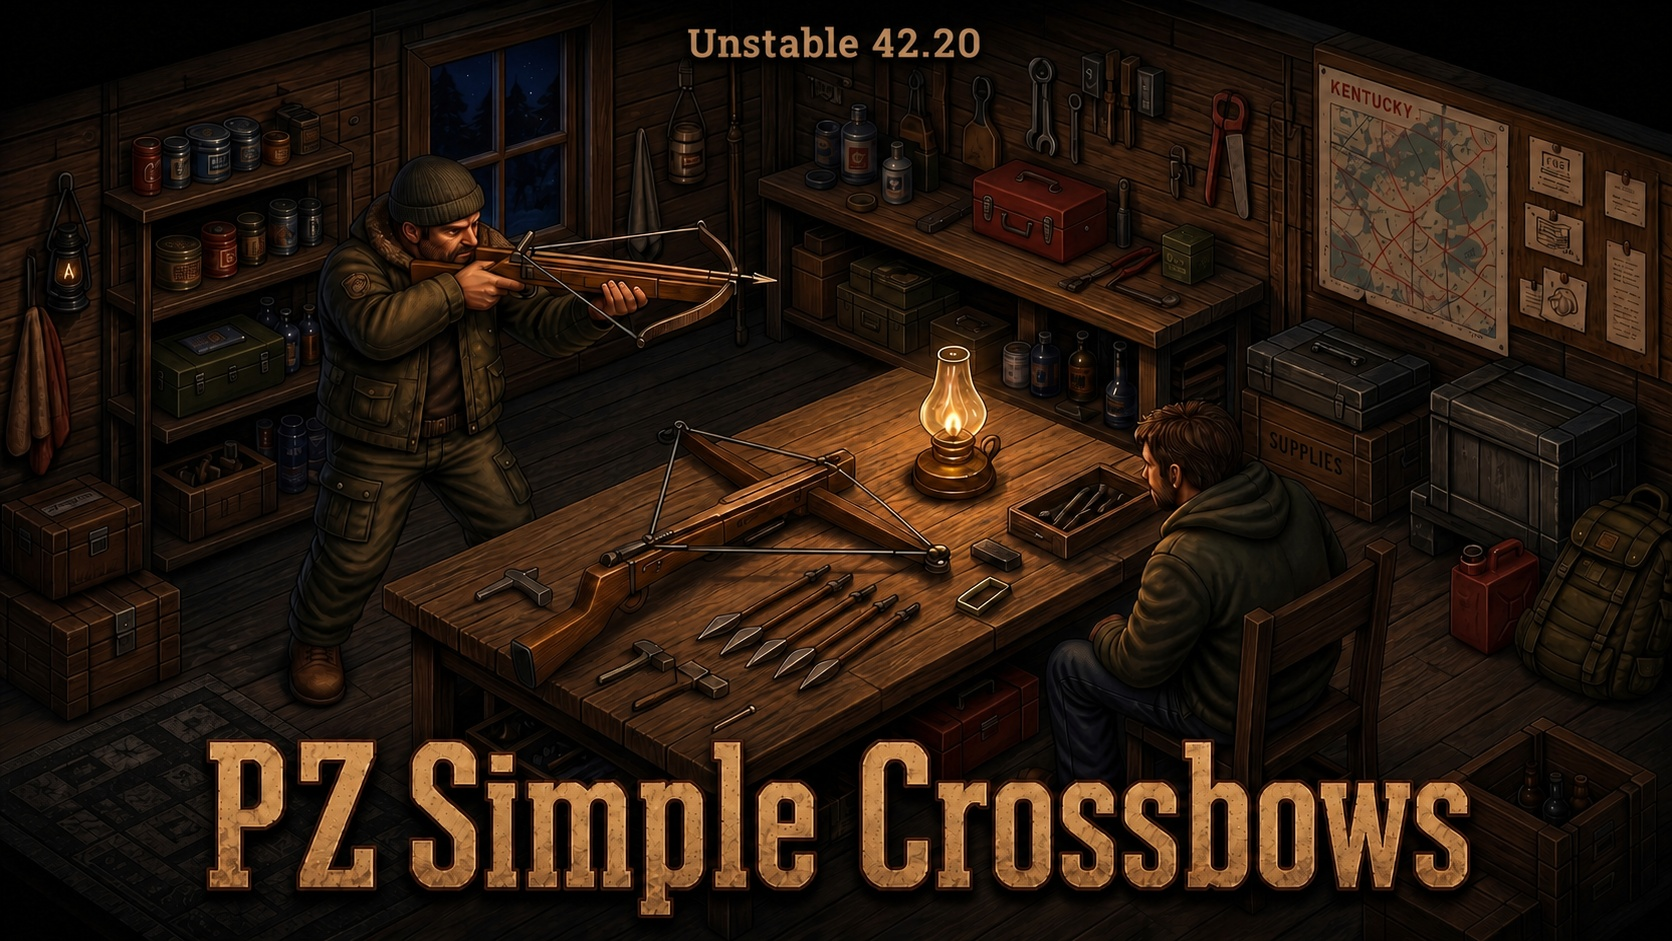
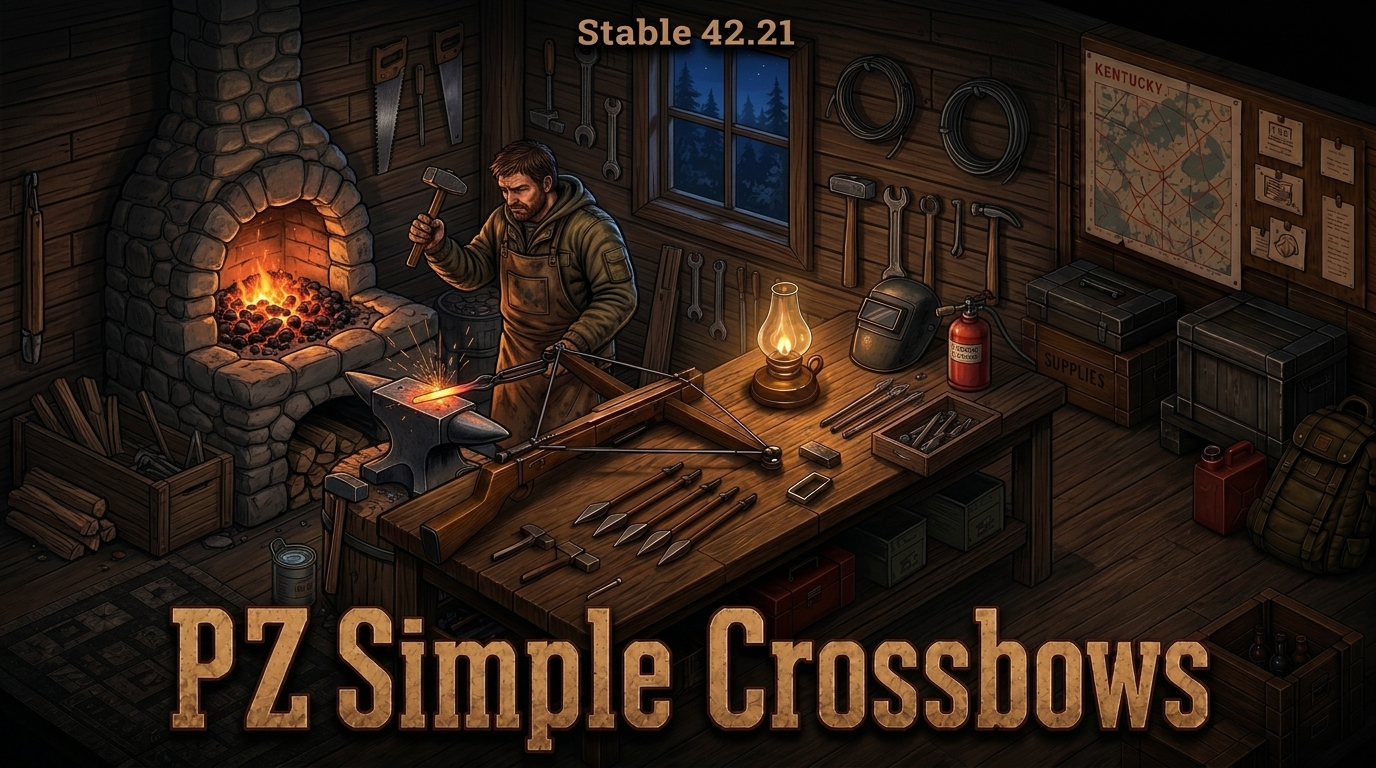
Refactor code structure for improved readability and maintainability

diff --git a/README.md b/README.md
@@ -4,21 +4,24 @@
 
 # PZ Simple Crossbows
 
-PZ Simple Crossbows is a standalone, lore-friendly crossbow pack for **Project Zomboid Build 42.21**. It adds practical craftable ranged weapons, handmade ammunition, custom models, icons, sounds, recipes, loot distribution, sandbox tuning, and English/Ukrainian localization.
+PZ Simple Crossbows is a standalone, lore-friendly crossbow pack for **Project Zomboid Build 42.21**. It adds practical craftable ranged weapons, wooden and forged/welded metal ammunition with smart dual-ammo switching, weapon repairs, custom models, icons, sounds, recipes, loot distribution, sandbox tuning, and English/Ukrainian localization.
 
 [![Steam Workshop](https://img.shields.io/badge/Steam-Workshop-1b2838?logo=steam&logoColor=white)](https://steamcommunity.com/sharedfiles/filedetails/?id=3758880254)
 ![Project Zomboid](https://img.shields.io/badge/Project%20Zomboid-Build%2042.21-b08b57)
 ![Multiplayer](https://img.shields.io/badge/Multiplayer-Supported-4c8c4a)
 ![Mod ID](https://img.shields.io/badge/Mod%20ID-PZCrossbows-d6a65a)
+![Version](https://img.shields.io/badge/Version-1.1.0-6a9fb5)
 
 ## Features
 
 - Four crossbow types with their own models, icons, balance, reload behavior, and use cases.
-- Full wooden-bolt ammo chain: carve shafts, knap stone heads, assemble bolts, and reuse or recover what survives.
+- **Dual-ammo system (Wood & Metal Bolts)**: every crossbow seamlessly fires both standard wooden bolts and forged/welded metal bolts with increased damage, critical chance, and door damage.
+- **Smart reload & ammo switching**: pressing `R` searches your main inventory, Bolt Quiver, and all worn/carried bags — automatically unloading partial bolts and switching to the other bolt type when one runs out (plus manual switching via holding `R` for the radial menu or right-clicking in inventory).
+- **Blacksmithing & Welding integration**: forge **Metal Bolt Heads** at a forge (**Blacksmithing 2**) or cut them with a propane blowtorch (**Welding 3**), and repair worn crossbows via field supplies, gas welding, or blacksmithing.
 - Wilderness-friendly crafting with no magazine or book requirement.
 - Standalone design: no extra framework mod required.
 - Loot distribution for weapons and ammo, with sandbox multipliers for spawn rates.
-- Multiplayer-safe bolt recovery from corpses.
+- Multiplayer-safe bolt recovery from corpses — metal bolts break less often, and broken metal bolts can be salvaged back into metal bolt heads.
 - Custom sounds for shooting, reloading, dry fire, rack actions, and impact.
 - English and Ukrainian localization included.
 
@@ -26,28 +29,29 @@ PZ Simple Crossbows is a standalone, lore-friendly crossbow pack for **Project Z
 
 | Weapon | Role | Notes |
 |---|---|---|
-| Crude Crossbow | Early survival weapon | Simple, rough, craftable from basic wood and binding. |
+| Crude Crossbow | Early survival weapon | Simple, rough, craftable from basic wood, nails, and binding. |
 | Improved Crossbow | Reliable mid-tier option | Better range and accuracy. |
 | Compound Crossbow | Heavy hitter | Strongest damage profile, slower reload, supports scopes. |
 | Hand Crossbow | Compact repeater | One-handed sidearm that uses short bolts and holds four shots. |
 
 ## Ammunition
 
-The mod adds a small survival crafting loop around wooden bolts:
+The mod includes two progression tiers of ammunition — primitive stone-tipped **Wood Bolts** and forged/welded **Metal Bolts**:
 
 - Carve **Wood Bolt Shafts** or **Short Wood Bolt Shafts** from branches, sticks, saplings, or planks.
-- Make **Stone Bolt Heads** through flint knapping.
-- Assemble **Wood Bolts** for full-size crossbows, or **Short Wood Bolts** for the hand crossbow.
-- Recover fired bolts from corpses, with configurable break chances — recovered bolts can come back intact or as **Broken Bolts**, salvageable for materials.
-- Bolts also come as **Box of Wood Bolts** / **Box of Short Wood Bolts** (a bundle of 10), found as loot or packed from loose bolts — open a box for 10 loose bolts, or bundle 10 loose bolts back into a box.
-- **Bolt Quiver**: a wearable container that holds only wooden bolts (full and short). Wearing one grants +15% reload speed to all crossbows, the same bonus a shotgun shell bandolier gives a shotgun.
+- Make **Stone Bolt Heads** through flint knapping, or craft **Metal Bolt Heads** at a forge (**Blacksmithing 2**) or with a propane blowtorch (**Welding 3**).
+- Assemble **Wood Bolts** / **Short Wood Bolts** with rags and binding, or **Metal Bolts** / **Short Metal Bolts** using sturdier fasteners (leather strips, scotch tape, duct tape, sinew thread, or wood glue) plus binding.
+- **Dual-Ammo Switching**: hold `R` to switch bolt types via the firearm radial menu, right-click bolts/crossbows in inventory, or simply press `R` — when your current bolt type runs out across your inventory, quiver, and bags, the crossbow automatically unloads any remaining bolts of the depleted type and loads the alternate type.
+- Recover fired bolts from corpses, with configurable break chances — metal bolts have a **25% lower break chance** than wood bolts, and **Broken Metal Bolts** can be salvaged (including via double-click) to recover their **Metal Bolt Head**.
+- Bolts also come in boxes of 10 (**Box of Wood Bolts**, **Box of Short Wood Bolts**, **Box of Metal Bolts**, **Box of Short Metal Bolts**), found as loot or packed/unpacked by hand.
+- **Bolt Quiver**: a wearable container that holds both wooden and metal bolts (full and short). Wearing one grants +15% reload speed to all crossbows, the same bonus a shotgun shell bandolier gives a shotgun.
 
 ## Where to find it
 
 Crossbows and bolts spawn as ordinary civilian loot — never in police or military loot pools:
 
 - **Pawn shops**: weapon racks/lockers can hold any of the four crossbow tiers.
-- **Gun stores and hunting/camping stores**: rifle racks and display cases carry Compound and Improved crossbows; ammo shelves carry boxes of bolts.
+- **Gun stores and hunting/camping stores**: rifle racks and display cases carry Compound and Improved crossbows; ammo shelves carry boxes of wood and metal bolts.
 - **Army surplus stores**: rifle rack alongside the gun stores.
 - **Ordinary houses**: closets, garages, living rooms, and storage units can turn up a crossbow or a box of bolts, same as any other hunting gear.
 - **Survivor safehouses and caches**: full weapon roster, same spawn family vanilla firearms use.
@@ -60,18 +64,24 @@ Crossbows, the quiver, and bolts can also be found while **foraging** outdoors (
 
 Spawn rates for each crossbow tier are tunable via the sandbox options below.
 
-## Crafting
+## Crafting & Repair
 
-All recipes are available without books and are built around common survival materials:
+All recipes are available without books and are built around survival and workshop materials:
 
 - A real knife or sharp knife tag for carving and weapon assembly.
 - Hammer for crossbow construction.
 - Saw, nails, wire, planks, sticks, branches, saplings, and binding depending on the weapon tier.
-- Carving, Maintenance, Woodwork, and Flint Knapping requirements scale with the item being made.
+- Carving, Maintenance, Woodwork, Flint Knapping, Blacksmithing, and Welding requirements scale with the item being made.
 - **Crude Crossbow** adds 4 nails to the base wood-and-binding build.
 - **Improved Crossbow** adds duct tape, scotch tape, or aramid thread for reinforcement.
 - **Compound Crossbow** adds nuts & bolts for the pulley mechanism, plus a wrench as a required tool.
 - **Hand Crossbow** adds electric wire, small carved handles, electronics scrap, and duct tape/scotch tape/aramid thread for its compact mechanism.
+- **Metal Bolt Heads** (batch of 5):
+  - **Forge (`Blacksmithing 2`)**: 1 charcoal + 1 metal piece (scrap metal, small sheet metal, iron/steel chunk, or quarter iron/steel bar) + hammer + tongs.
+  - **Blowtorch (`Welding 3`)**: 1 blowtorch use + welding mask + cutting/filing tool + 1 flat/bar metal piece (small sheet metal or quarter iron/steel bar).
+- **Crossbow Repair**:
+  - **Field repairs**: standard tape, wood glue, or epoxy repairs.
+  - **Workshop repairs**: higher-efficiency restoration via gas welding (`Welding 1`) or at a forge (`Blacksmithing 1`).
 - **Bolt Quiver** is sewn instead of built: scissors, a sewing needle, and an awl (tools), plus 4 leather strips, heavy thread, and a buckle (consumed). Requires Tailoring 2.
 
 ## Item weights
@@ -82,15 +92,23 @@ All recipes are available without books and are built around common survival mat
 | Improved Crossbow | 2 |
 | Compound Crossbow | 1.75 |
 | Hand Crossbow | 1.45 |
+| Bolt Quiver | 0.5 |
 | Wood Bolt Shaft | 0.05 |
 | Short Wood Bolt Shaft | 0.03 |
-| Crossbow Bolt Head | 0.1 |
+| Crossbow Bolt Head (Stone) | 0.1 |
+| Metal Bolt Head | 0.1 |
 | Wood Bolt | 0.08 |
 | Short Wood Bolt | 0.05 |
 | Wood Bolt (Broken) | 0.06 |
 | Short Wood Bolt (Broken) | 0.03 |
 | Box of Wood Bolts | 0.7 |
 | Box of Short Wood Bolts | 0.4 |
+| Metal Bolt | 0.1 |
+| Short Metal Bolt | 0.06 |
+| Metal Bolt (Broken) | 0.08 |
+| Short Metal Bolt (Broken) | 0.05 |
+| Box of Metal Bolts | 0.85 |
+| Box of Short Metal Bolts | 0.5 |
 
 ## Sandbox options
 
@@ -101,9 +119,9 @@ All recipes are available without books and are built around common survival mat
 | Improved Crossbow Spawn Multiplier | 1.0 | 0.0-1000.0 | Container and foraging spawn multiplier for improved crossbows. |
 | Compound Crossbow Spawn Multiplier | 1.0 | 0.0-1000.0 | Container and foraging spawn multiplier for compound crossbows and full-size bolts. |
 | Hand Crossbow Spawn Multiplier | 1.0 | 0.0-1000.0 | Container and foraging spawn multiplier for hand crossbows and short bolts. |
-| Wood Bolt Base Break Chance | 40% | 0-100 | Base chance for a recovered full-size bolt to break. |
+| Wood Bolt Base Break Chance | 40% | 0-100 | Base chance for a recovered full-size bolt to break (metal bolts have 25% lower break chance). |
 | Wood Bolt Break Chance Scaling | 3% | 0-100 | Additional break chance scaling for full-size bolts. |
-| Short Wood Bolt Base Break Chance | 50% | 0-100 | Base chance for a recovered short bolt to break. |
+| Short Wood Bolt Base Break Chance | 50% | 0-100 | Base chance for a recovered short bolt to break (short metal bolts have 25% lower break chance). |
 | Short Wood Bolt Break Chance Scaling | 3% | 0-100 | Additional break chance scaling for short bolts. |
 
 Every mod item's spawn weight is the Overall Loot Spawn Multiplier stacked (multiplied) with its own tier multiplier, applied identically to both container loot and foraging: crossbows use their own tier multiplier; the Bolt Quiver only uses the overall multiplier (it isn't tied to one specific crossbow tier); full-size bolts (loose and boxed) use the overall multiplier together with the Compound Crossbow multiplier; short bolts (loose and boxed) use the overall multiplier together with the Hand Crossbow multiplier. Setting the overall multiplier to 0 disables all mod loot and foraging spawns regardless of the individual tier sliders.
@@ -147,6 +165,7 @@ PZCrossbows/
     |-- mod.info
     |-- poster.png
     `-- media/
+        |-- registries.lua
         |-- sandbox-options.txt
         |-- scripts/
         |-- lua/
@@ -162,7 +181,7 @@ PZCrossbows/
 - Multiplayer and co-op hosting
 - Mod ID: `PZCrossbows`
 - Workshop ID: `3758880254`
-- Mod version: `1.0.9`
+- Mod version: `1.1.0`
 
 ## Author
 
